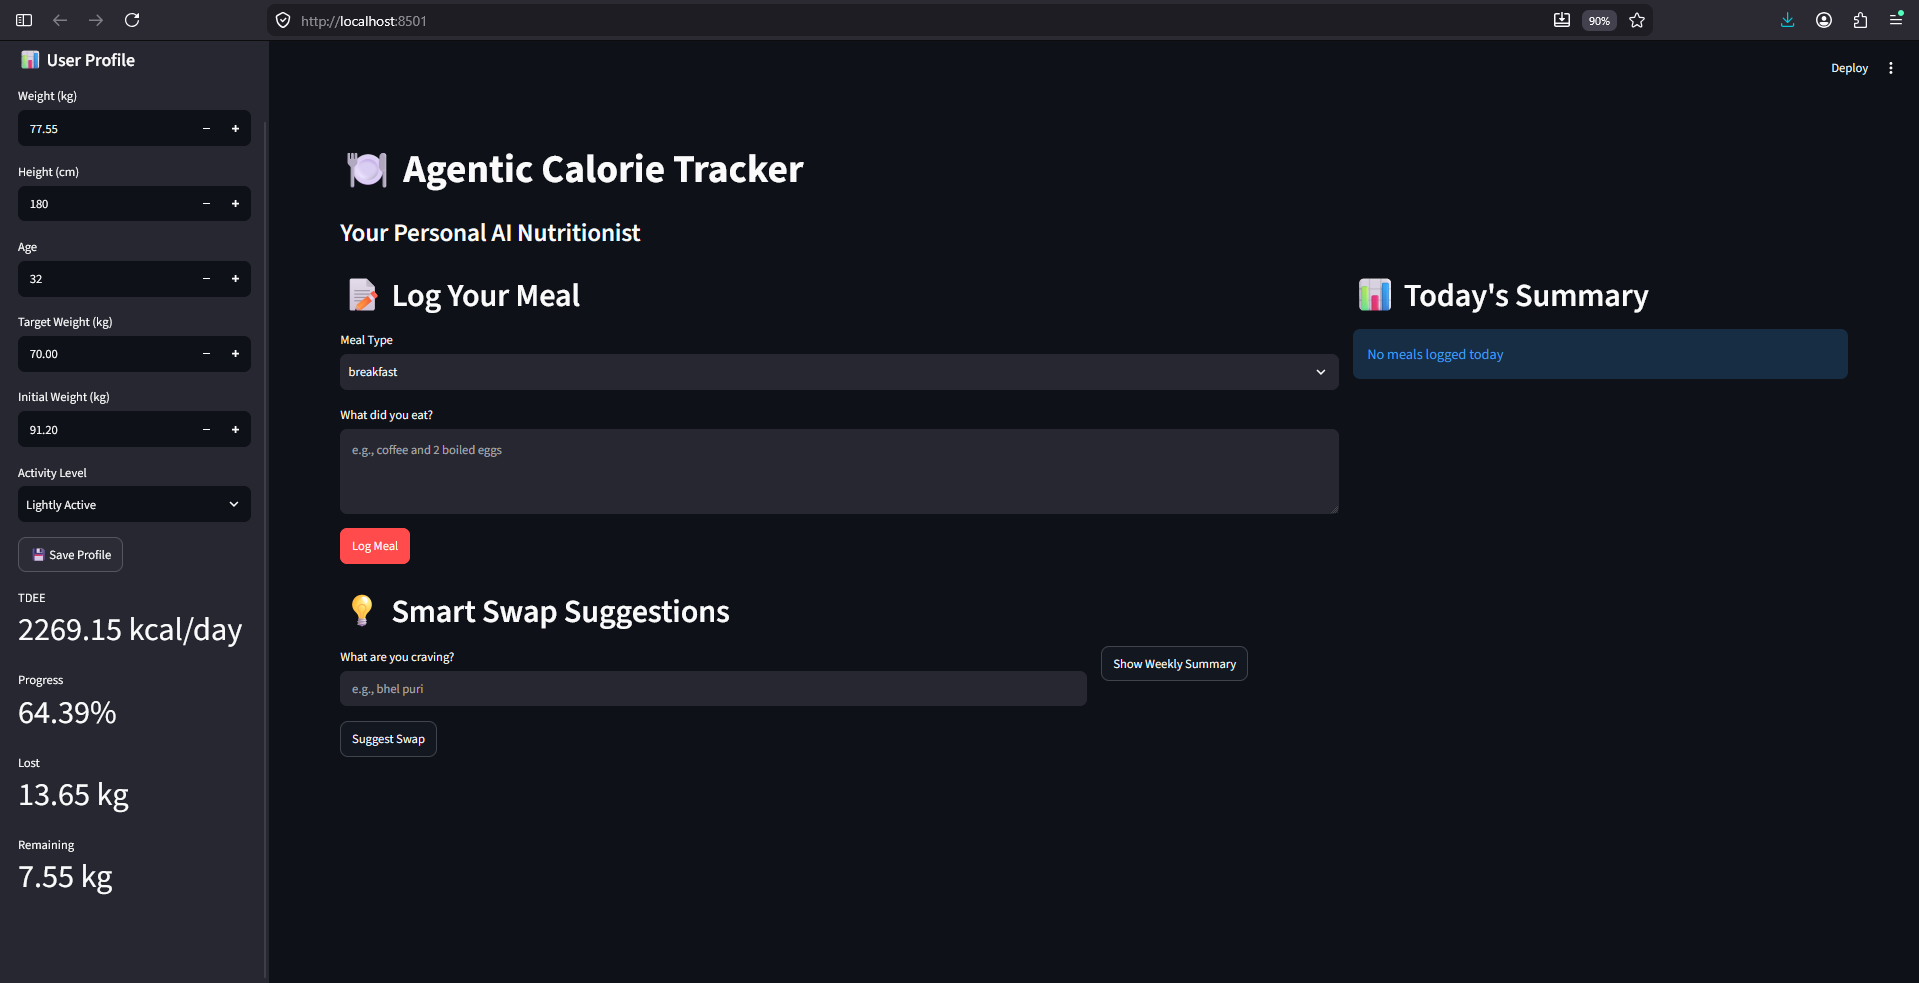
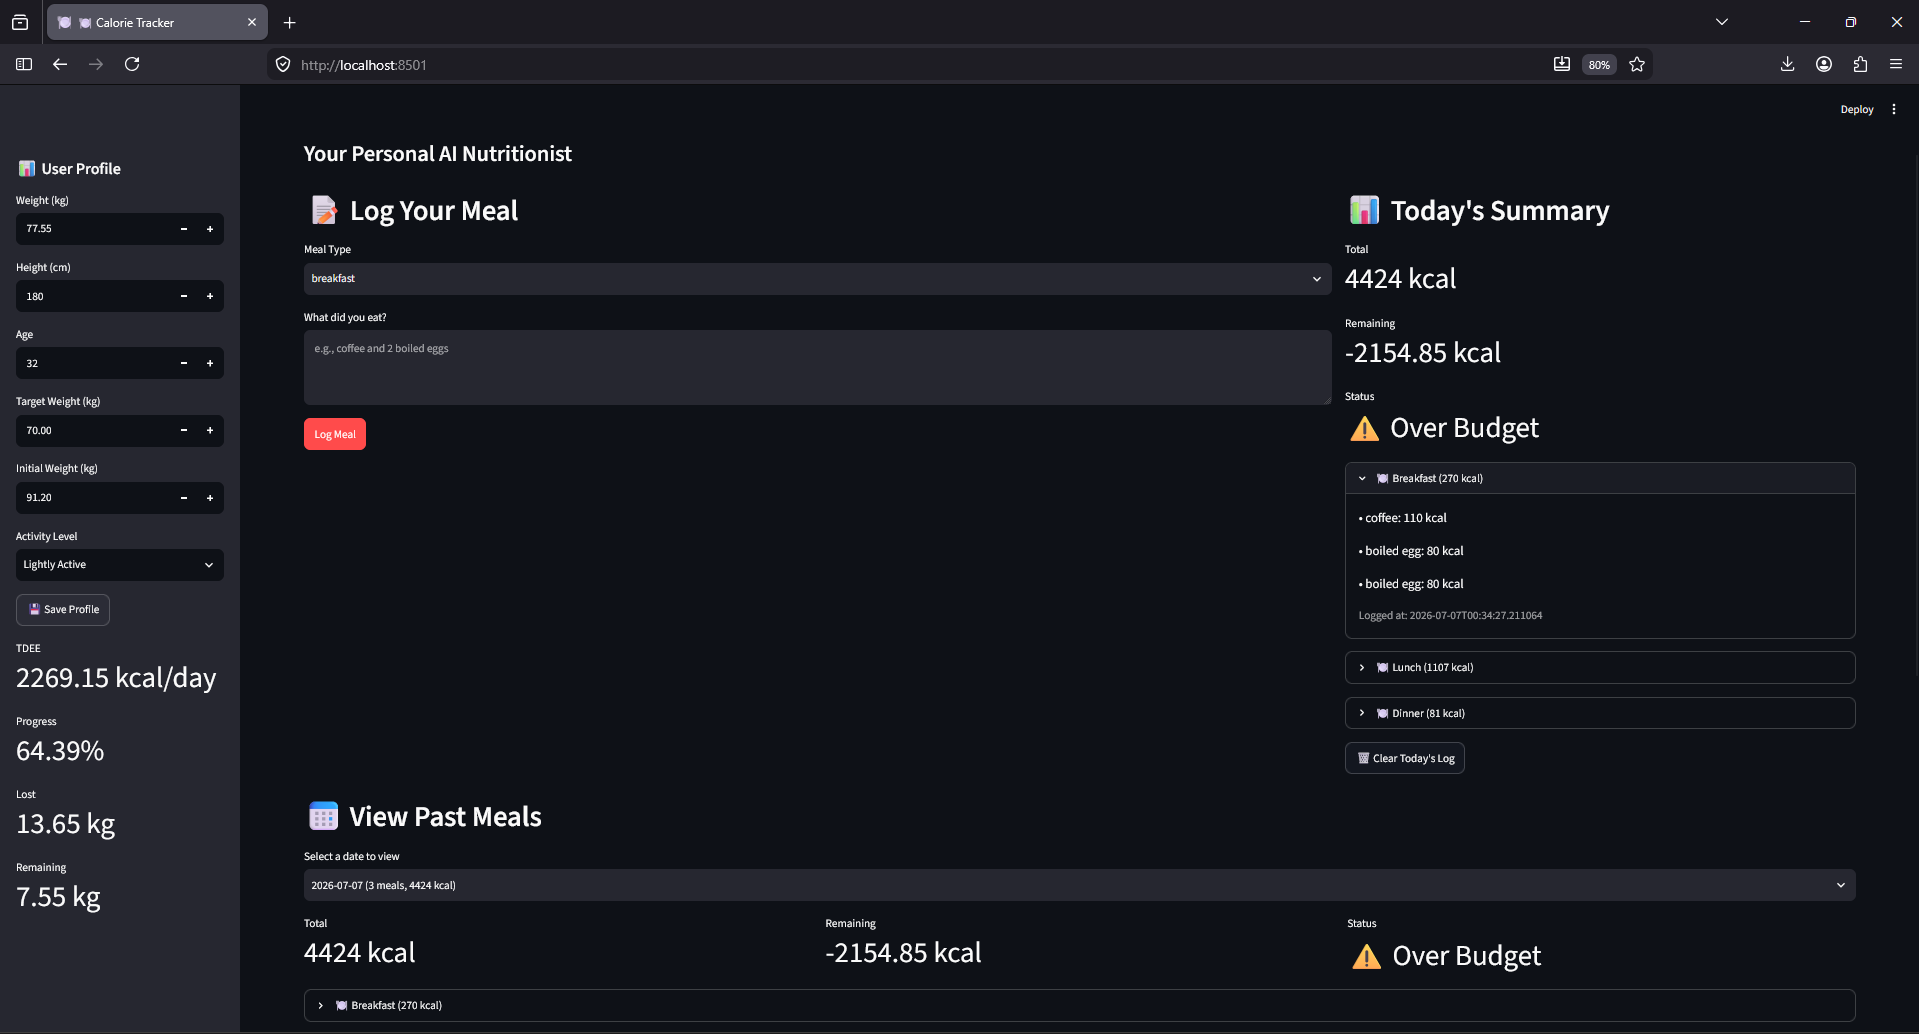
updated screenshots

diff --git a/README.md b/README.md
@@ -1,13 +1,13 @@
 ![logo](images/logo.jpg)
 
-# 🍽️ Agentic Calorie Tracker
+# Agentic Calorie Tracker
 Your Personal AI Nutritionist - A multi-agent system for intelligent calorie tracking and health management.
 
-## 🏆 Capstone Project - Concierge Agents Track
+## Capstone Project - Concierge Agents Track
 
 This project demonstrates a rudimentary AI agent system built with Google's Agent Development Kit (ADK) that helps users track their daily calorie intake using natural language.
 
-## 📋 Problem Statement
+## Problem Statement
 
 People struggle to track their daily calorie intake consistently because:
 
@@ -16,7 +16,7 @@ People struggle to track their daily calorie intake consistently because:
 - Most apps require exact food matching
 - Lack of personalized, contextual advice
 
-## 💡 Solution
+## Solution
 
 An AI-powered calorie tracking assistant that:
 
@@ -27,7 +27,7 @@ An AI-powered calorie tracking assistant that:
 - Shows progress toward weight goals
 - Uses multi-agent architecture for reliable, scalable tracking
 
-## 🏗️ Architecture
+##  Architecture
 
 ```
 ┌─────────────────────────────────────────────────────────────┐
@@ -37,10 +37,10 @@ An AI-powered calorie tracking assistant that:
                               ↓
 ┌─────────────────────────────────────────────────────────────┐
 │              PARALLEL PROCESSING                            │
-│  ┌────────────────────┐  ┌─────────────────────────────┐   │
-│  │  Food Estimator    │  │  Query Classifier           │   │
-│  │  (LLM Agent)       │  │  (LLM Agent)                │   │
-│  └────────────────────┘  └─────────────────────────────┘   │
+│  ┌────────────────────┐  ┌─────────────────────────────┐    │
+│  │  Food Estimator    │  │  Query Classifier           │    │
+│  │  (LLM Agent)       │  │  (LLM Agent)                │    │
+│  └────────────────────┘  └─────────────────────────────┘    │
 └─────────────────────────────────────────────────────────────┘
                               ↓
 ┌─────────────────────────────────────────────────────────────┐
@@ -55,21 +55,21 @@ An AI-powered calorie tracking assistant that:
                               ↓
 ┌─────────────────────────────────────────────────────────────┐
 │                 USER RESPONSE                               │
-│  "Logged breakfast: 270 kcal. Daily total: 270/2300.       │
-│   Remaining: 2030 kcal. Great start! 💪"                   │
+│  "Logged breakfast: 270 kcal. Daily total: 270/2300.        │
+│   Remaining: 2030 kcal. Great start! "                      │
 └─────────────────────────────────────────────────────────────┘
 ```
 
-## 🎯 Key Concepts Demonstrated
+## Key Concepts Demonstrated
 
-- ✅ **Multi-Agent System** (ADK) - Sequential, Parallel, and Loop agents
-- ✅ **Function Tools** - Custom Python functions as agent tools
-- ✅ **Agent Tools** - Agents calling other agents
-- ✅ **Security Features** - No hardcoded API keys, local data storage
-- ✅ **Deployability** - Runs locally, in Kaggle, or Streamlit
-- ✅ **Agent Skills** - ADK CLI tools (create, run, web)
+- **Multi-Agent System** (ADK) - Sequential, Parallel, and Loop agents
+- **Function Tools** - Custom Python functions as agent tools
+- **Agent Tools** - Agents calling other agents
+- **Security Features** - No hardcoded API keys, local data storage
+- **Deployability** - Runs locally, in Kaggle, or Streamlit
+- **Agent Skills** - ADK CLI tools (create, run, web)
 
-## 🚀 Quick Start
+## Quick Start
 
 ### Prerequisites
 
@@ -105,24 +105,24 @@ python agent.py
 streamlit run ui/app.py
 ```
 
-## 📊 Demo Output
+## Demo Output
 ```
-🍽️ AGENTIC CALORIE TRACKER
-🏆 Kaggle Capstone Project - Concierge Agents Track
+ AGENTIC CALORIE TRACKER
+ Kaggle Capstone Project - Concierge Agents Track
 ======================================================================
 
-📊 USER PROFILE:
+ USER PROFILE:
    Current Weight: 77.55 kg
    Target Weight: 70 kg
    TDEE: 2300 kcal/day
    Progress: 13.65 kg lost (86.76% to goal)
 
 ──────────────────────────────────────────────────────────────────────
-📝 TEST 1: I had coffee and 2 boiled eggs for breakfast
+ TEST 1: I had coffee and 2 boiled eggs for breakfast
 ──────────────────────────────────────────────────────────────────────
 
-📝 Logged breakfast: 270 kcal. Daily total: 270/2300. 
-    Remaining: 2030 kcal. Great start! 💪
+ Logged breakfast: 270 kcal. Daily total: 270/2300. 
+    Remaining: 2030 kcal. Great start! 
 ```
 
 
@@ -134,7 +134,7 @@ streamlit run ui/app.py
 
 
 
-## 📁 Project Structure
+## Project Structure
 
 ```
 calorie-tracker-agent/
@@ -161,7 +161,7 @@ calorie-tracker-agent/
 └── README.md
 ```
 
-## 🔐 Security
+## Security
 
 This project handles your personal data securely:
 
@@ -183,7 +183,7 @@ This project handles your personal data securely:
    GOOGLE_API_KEY=your_actual_api_key_here
    ```
 
-## 💻 Technology Stack
+## Technology Stack
 
 - **Framework**: Google ADK (Agent Development Kit)
 - **LLM**: Gemini 2.5 Flash Lite
@@ -191,7 +191,7 @@ This project handles your personal data securely:
 - **Language**: Python 3.11+
 - **Data Storage**: Local JSON files
 
-## 🔮 Future Enhancements
+## Future Enhancements
 
 - [ ] MCP Server integration with fitness trackers (Fitbit, Apple Health)
 - [ ] Recipe suggestions based on remaining calories
@@ -199,26 +199,26 @@ This project handles your personal data securely:
 - [ ] Meal planning recommendations
 - [ ] Nutrition breakdown (protein, carbs, fat)
 
-## 📝 License
+## License
 
 MIT License - See LICENSE file for details
 
-## 👤 Author
+## Author
 
 Your Name
 - GitHub: [@edmund-carvalho](https://github.com/edmund-carvalho)
 - LinkedIn: [edmund-carvalho](https://www.linkedin.com/in/edmundcarvalho/)
 
-## 🙏 Acknowledgments
+## Acknowledgments
 
 - Google Agent Development Kit (ADK)
 - Kaggle 5-Day AI Agents Course
 - Gemini API
 - Streamlit
 
-## ⭐ Support
+## Support
 
-If you find this project useful, please give it a star! ⭐
+If you find this project useful, please give it a star!
 
 
 